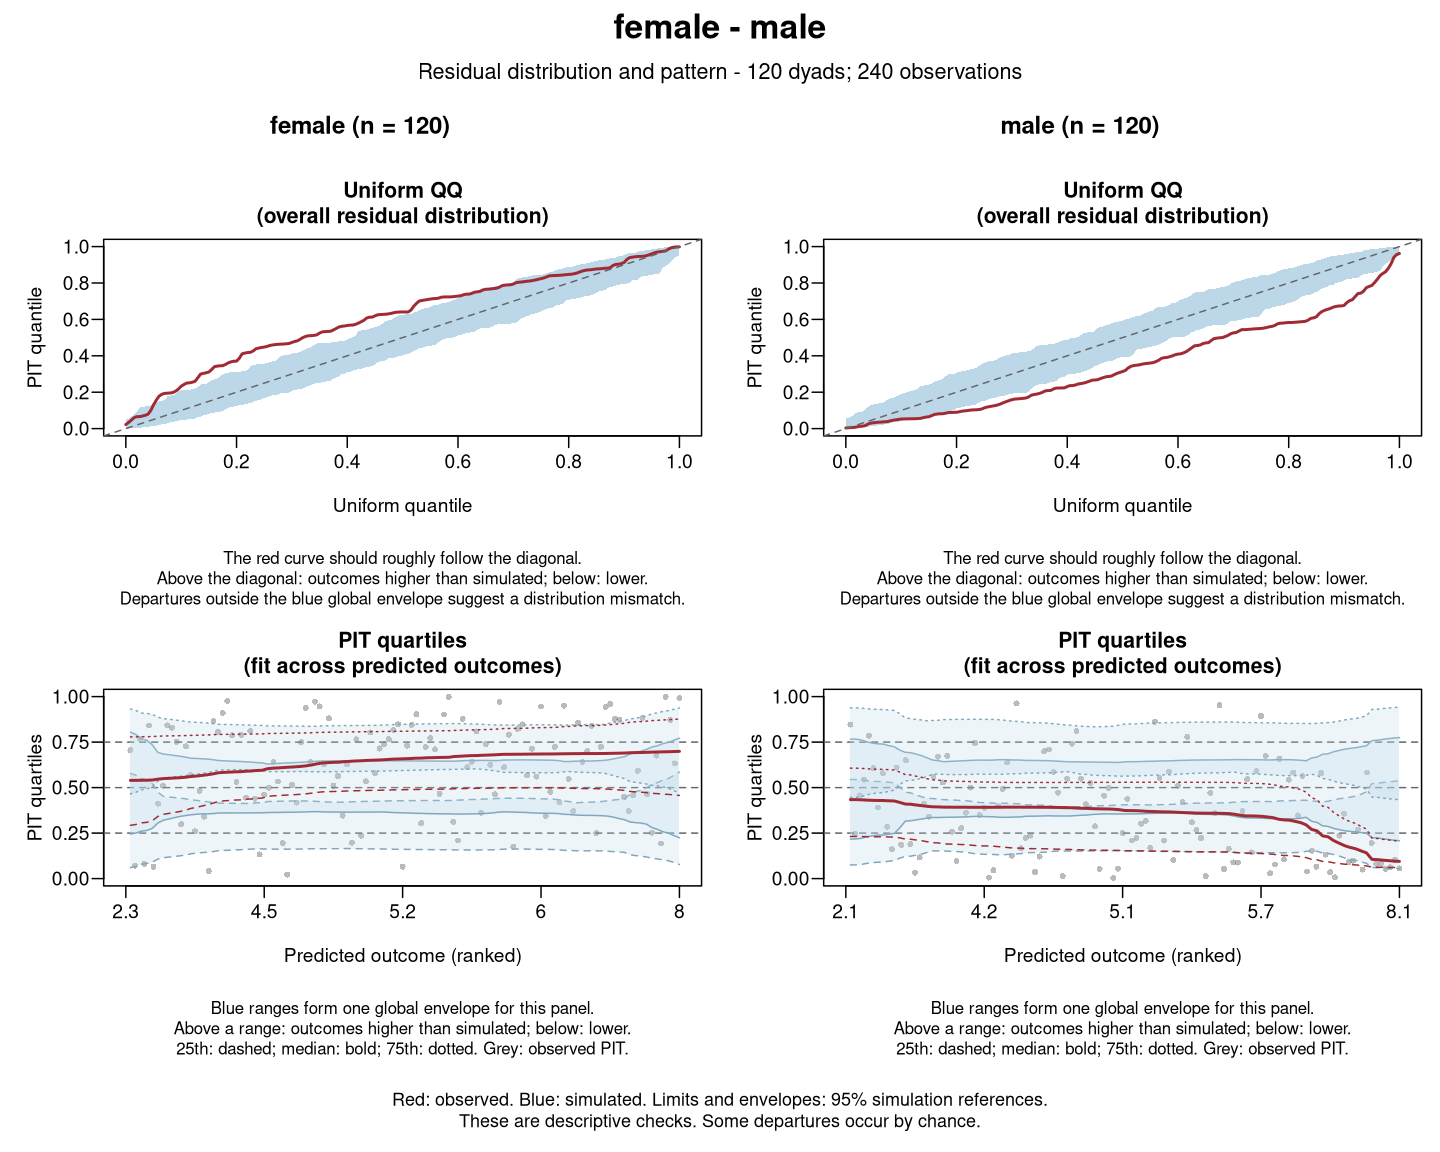
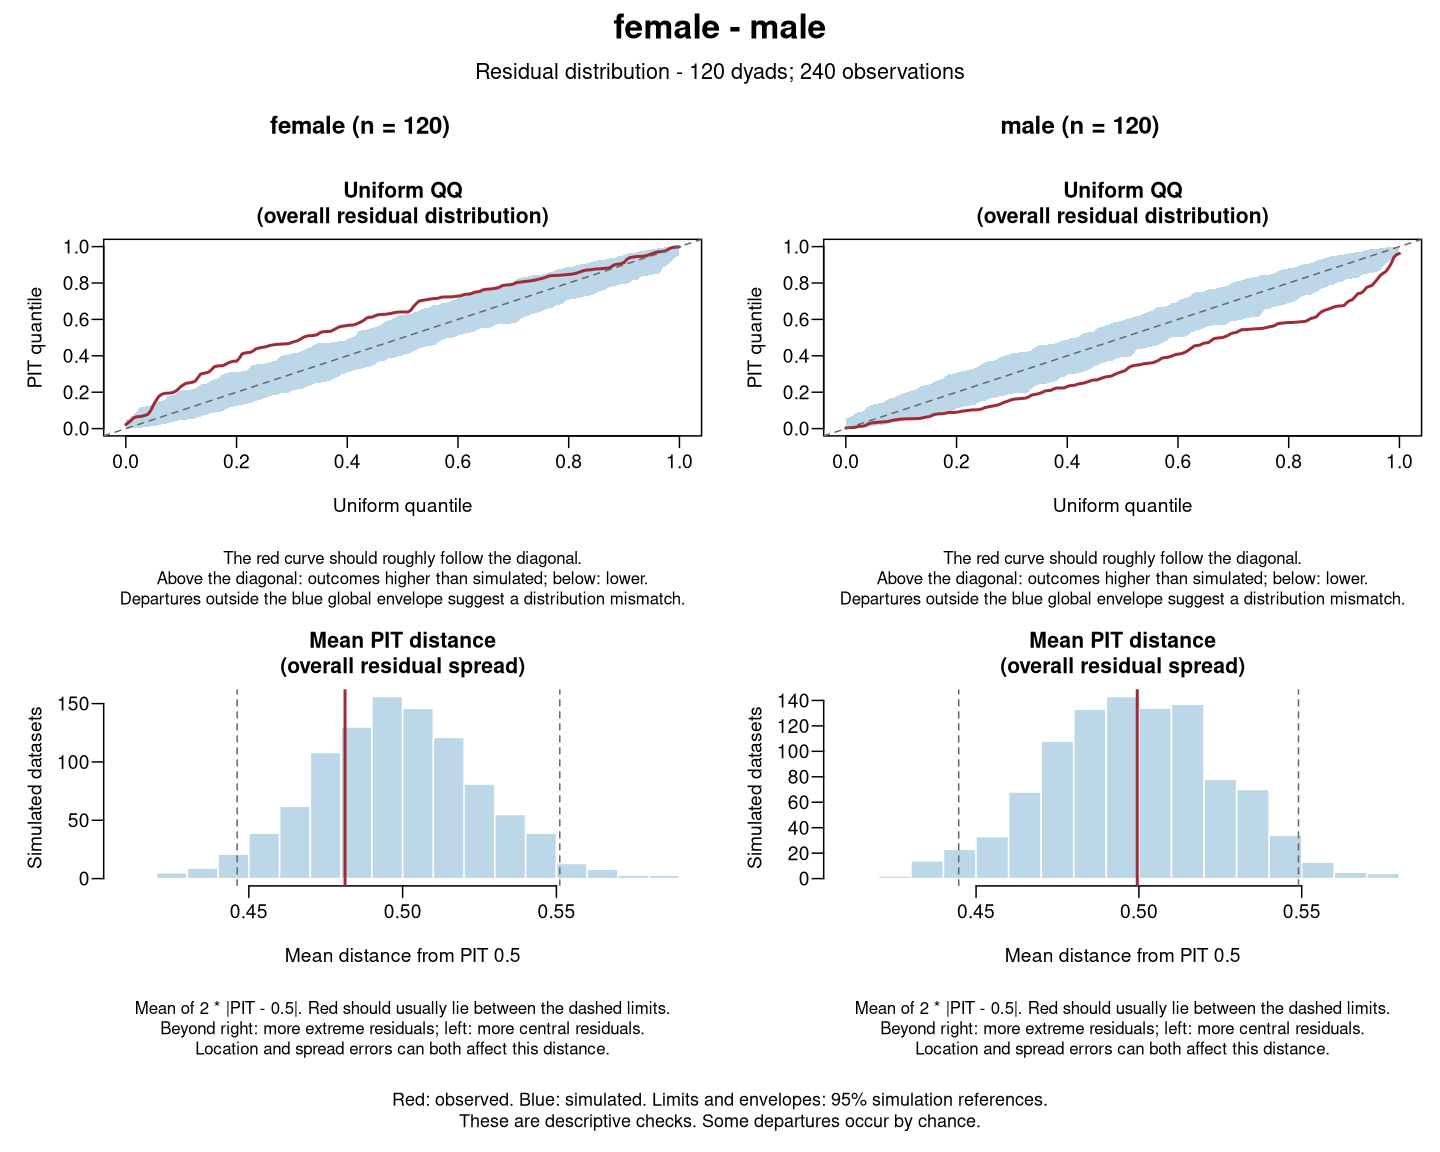
updated readme

diff --git a/README.md b/README.md
@@ -74,10 +74,9 @@ selected compositions as exchangeable, centering predictors, and
 creating within-/between-person components and lagged predictors.
 
 Prepared data can be used with **glmmTMB**, **brms**, and other
-multilevel modeling packages that support the required model structure.
-See the [Getting Started
+multilevel modeling packages. See the [Getting Started
 vignette](https://pascal-kueng.github.io/dyadMLM/articles/getting-started.html)
-for data requirements and examples.
+for data requirements and examples of data preparation workflows.
 
 ## Post-estimation tools
 
@@ -85,32 +84,21 @@ for data requirements and examples.
 |----|----|----|
 | [Compare nested models](https://pascal-kueng.github.io/dyadMLM/reference/compare_nested_models.html) | ✅ Supported | Not implemented · [Contribute](https://github.com/Pascal-Kueng/dyadMLM/blob/main/.github/CONTRIBUTING.md) |
 | [Recover exchangeable member variances and partner covariances](https://pascal-kueng.github.io/dyadMLM/reference/recover_exchangeable_covariance.html) | ✅ Point estimates | ✅ Posterior summaries and draws |
-| [Check partner dependence — cross-sectional](https://pascal-kueng.github.io/dyadMLM/reference/check_partner_dependence.html) | ✅ Experimental | Not implemented · [Contribute](https://github.com/Pascal-Kueng/dyadMLM/blob/main/.github/CONTRIBUTING.md) |
-| [Check residuals](https://pascal-kueng.github.io/dyadMLM/reference/check_dyad_residuals.html) | ✅ Experimental | Not implemented · [Contribute](https://github.com/Pascal-Kueng/dyadMLM/blob/main/.github/CONTRIBUTING.md) |
-| [Check outcomes](https://pascal-kueng.github.io/dyadMLM/reference/check_dyad_outcomes.html) | ✅ Experimental | Not implemented · [Contribute](https://github.com/Pascal-Kueng/dyadMLM/blob/main/.github/CONTRIBUTING.md) |
-
-Predictive checks compare the *observed* data with data simulated from
-the fitted model: outcome and residual distributions, variability, and
-partner dependence. See
-[`simulate_dyad_responses()`](https://pascal-kueng.github.io/dyadMLM/reference/simulate_dyad_responses.html)
-for supported models. Simulation studies show how often the partner
-check detects [omitted partner
-dependence](https://pascal-kueng.github.io/dyadMLM/articles/partner-dependence-simulation.html)
-and [incorrect covariance
-pooling](https://pascal-kueng.github.io/dyadMLM/articles/covariance-pooling.html),
-and how often the residual and outcome checks [flag correct and
-mismatched
-models](https://pascal-kueng.github.io/dyadMLM/articles/distribution-checks.html).
+| [Check partner dependence — cross-sectional](https://pascal-kueng.github.io/dyadMLM/reference/check_partner_dependence.html)[^1] | ✅ Experimental | Not implemented · [Contribute](https://github.com/Pascal-Kueng/dyadMLM/blob/main/.github/CONTRIBUTING.md) |
+| [Check residuals](https://pascal-kueng.github.io/dyadMLM/reference/check_dyad_residuals.html)[^2] | ✅ Experimental | Not implemented · [Contribute](https://github.com/Pascal-Kueng/dyadMLM/blob/main/.github/CONTRIBUTING.md) |
+| [Check outcomes](https://pascal-kueng.github.io/dyadMLM/reference/check_dyad_outcomes.html)[^3] | ✅ Experimental | Not implemented · [Contribute](https://github.com/Pascal-Kueng/dyadMLM/blob/main/.github/CONTRIBUTING.md) |
 
 ## Quick example
 
-Using the bundled simulated data, we select female–male dyads and, for
-illustration, fit an APIM that treats partners as exchangeable. We then
-check whether it reproduces gender-specific variation and partner
-dependence.
+Using the simulated data bundled with dyadMLM, we select female–male
+dyads and, for illustration, fit an APIM that treats partners as
+exchangeable. We then check whether the assumptions of exchangeability
+is supported by checking, whether the observed partner dependence is
+replicated for both genders. We also test whether the model replicates
+other aspects of the data well, and whether the residuals are
+distributed as expected.
 
-This example requires the development version of **dyadMLM**. It also
-uses **glmmTMB**.
+This example requires the development version of **dyadMLM**.
 
 ``` r
 library(dyadMLM)
@@ -119,12 +107,17 @@ prepared_data <- prepare_dyad_data(
   dyads_cross,
   dyad = coupleID,
   member = personID,
-  role = gender,
+  
+  # by specifying a role and requesting the arbitrary contrast alongside it, 
+  # we can fit both a distinguishable and an exchangeable model on the same
+  # prepared data.
+  role = gender, 
+  include_arbitrary_member_contrast = TRUE,
+  
   predictors = provided_support,
   model_types = "apim",
   keep_compositions = "female-male",
   add_apim_gmc_predictors = TRUE,
-  include_arbitrary_member_contrast = TRUE,
   seed = 123
 )
 ```
@@ -232,6 +225,11 @@ print(covariance, representation = "sdcor")
 #> 2 member2: (Intercept) -0.039 1.089
 ```
 
+Note that the random intercepts represent the residual variances for
+each partner. Due to exchangeability constraints, both partners have
+equal variances, yet we are still able to correctly recover the negative
+correlation between the partners’ residual variances.
+
 For illustration, the path diagram from the [APIM
 vignette](https://pascal-kueng.github.io/dyadMLM/articles/apim.html#fitting-the-restricted-exchangeable-apim-with-glmmtmb)
 shows these estimates:
@@ -294,7 +292,7 @@ check_dyad_residuals(
 
 Women’s QQ curve and PIT median rise above their envelopes and men’s
 fall below, so women’s observed closeness is higher than simulated and
-men’s is lower.
+men’s is lower than simulated.
 
 ``` r
 check_dyad_outcomes(
@@ -307,11 +305,13 @@ check_dyad_outcomes(
 
 <img src="man/figures/README-exchangeable-outcomes-1.png" alt="Outcome checks for women and men under the exchangeable APIM: outcome ECDFs in the top row, then histograms of the response SD and the largest absolute deviation. Women's observed ECDF lies right of the simulated curves and men's left. The red lines in the histograms lie within the dashed limits." width="100%" />
 
-The outcome ECDFs show the same shift, while response SDs and largest
-deviations stay within their limits.
+The outcome ECDFs show the same issue, while response SDs and largest
+deviations stay within their simulated limits.
 
-A next step is to fit a distinguishable APIM, as shown in the [APIM
-vignette](https://pascal-kueng.github.io/dyadMLM/articles/apim.html).
+Together, these plots point to issues with the exchangeability
+assumption of the model. A next step is to fit a distinguishable APIM
+(shown in more detail in the [APIM
+vignette](https://pascal-kueng.github.io/dyadMLM/articles/apim.html)).
 
 ``` r
 model_distinguishable <- glmmTMB::glmmTMB(
@@ -319,16 +319,18 @@ model_distinguishable <- glmmTMB::glmmTMB(
     # Gender-specific intercepts
     0 + .is_female + .is_male +
 
-    # Gender-specific actor and partner effects
+    # Gender-specific actor effects
     .is_female:.provided_support_gmc_actor +
     .is_male:.provided_support_gmc_actor +
+    
+    # Gender-specific partner effects
     .is_female:.provided_support_gmc_partner +
     .is_male:.provided_support_gmc_partner +
 
     # Gender-specific residual variances and their covariance
     us(0 + .is_female + .is_male | coupleID),
 
-  dispformula = ~ 0,
+  dispformula = ~ 0, # Fix the additional Gaussian residual variance near zero
   family = gaussian(),
   data = prepared_data
 )
@@ -355,9 +357,10 @@ compare_nested_models(model, model_distinguishable)
 #> Conclusion (5% level): The likelihood-ratio test provides evidence that `model_distinguishable` fits better than `model` (p < 0.001).
 ```
 
-Check the distinguishable model the same way, and see the [APIM
+The comparison favors the distinguishable model. As a next step, repeat
+the checks from above for this model. Refer to the [APIM
 vignette](https://pascal-kueng.github.io/dyadMLM/articles/apim.html#checking-partner-dependence)
-for how to read the checks.
+for further guidance.
 
 </details>
 
@@ -433,3 +436,15 @@ through
 Documentation, examples, tests, reviews, and code contributions are all
 welcome. See the [contribution
 guide](https://github.com/Pascal-Kueng/dyadMLM/blob/main/.github/CONTRIBUTING.md).
+
+[^1]: Predictive checks compare the *observed* data and residuals with
+    those simulated from the fitted model (similar to what the DHARMa
+    package does). !TODO: link DHARMa?
+
+[^2]: Predictive checks compare the *observed* data and residuals with
+    those simulated from the fitted model (similar to what the DHARMa
+    package does). !TODO: link DHARMa?
+
+[^3]: Predictive checks compare the *observed* data and residuals with
+    those simulated from the fitted model (similar to what the DHARMa
+    package does). !TODO: link DHARMa?
